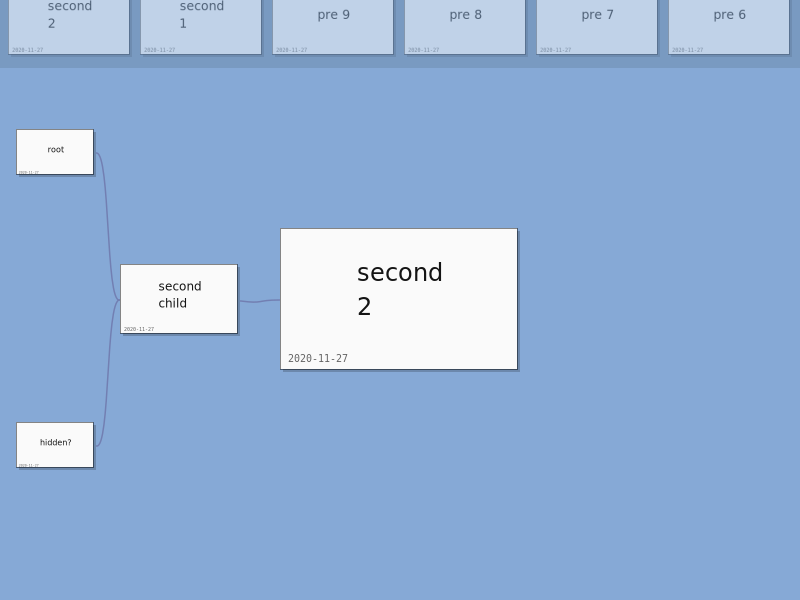
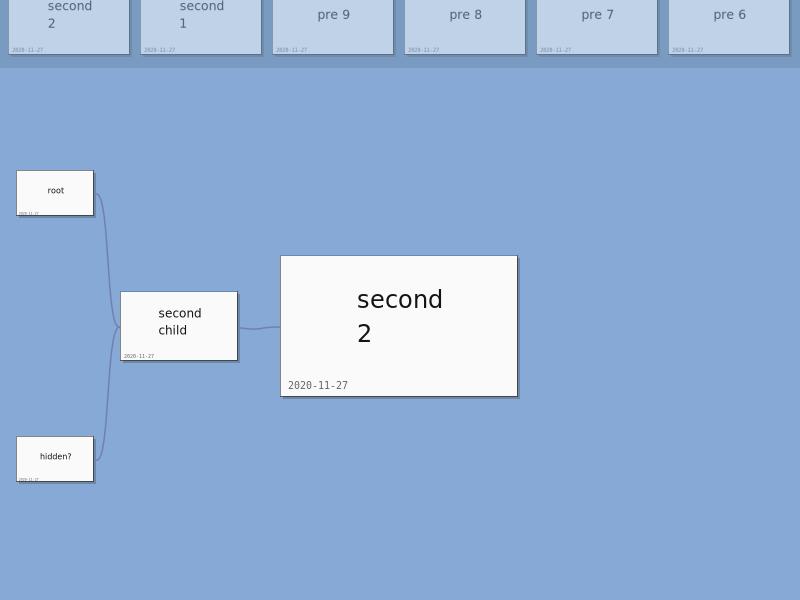
More realistic simulation of update events.

diff --git a/test_smartnotes.py b/test_smartnotes.py
@@ -60,7 +60,14 @@ class GuiDriver(object):
     def iteration(self, events=[], elapsed_ms=1000):
         for event in events:
             self.widget.process_event(event)
-        self.widget.update(pygame.Rect(0, 0, 800, 600), elapsed_ms)
+        while elapsed_ms > 0:
+            elapsed_ms_per_frame = min(elapsed_ms, 20)
+            elapsed_ms -= elapsed_ms_per_frame
+            self.widget.update(pygame.Rect(0, 0, 800, 600), elapsed_ms_per_frame)
+            self.widget.draw(self.canvas)
+        self.widget.update(pygame.Rect(0, 0, 800, 600), 0)
+        self.widget.draw(self.canvas)
+        self.widget.update(pygame.Rect(0, 0, 800, 600), 0)
         self.widget.draw(self.canvas)
 
     def write_to_png(self, path):
@@ -70,7 +77,6 @@ class SmartNotesEndToEndTests(unittest.TestCase):
 
     def setUp(self):
         self.driver = GuiDriver(smartnotes.SmartNotesWidget, "test_resources/example.notes")
-        self.driver.iteration()
 
     def assert_drawn_image_is(self, name):
         try:
@@ -89,27 +95,17 @@ class SmartNotesEndToEndTests(unittest.TestCase):
             )
 
     def test_main_screen(self):
-        self.driver.iteration()
+        self.driver.iteration(elapsed_ms=300)
         self.assert_drawn_image_is("main_screen.png")
 
     def test_search_bar(self):
         self.driver.iteration(events=[KeyEvent("/")], elapsed_ms=100)
-        self.driver.iteration(elapsed_ms=0)
         self.assert_drawn_image_is("search_bar_half_way.png")
         self.driver.iteration(elapsed_ms=100)
-        self.driver.iteration(elapsed_ms=0)
         self.assert_drawn_image_is("search_bar_animation_completed.png")
         self.driver.iteration(events=[KeyEvent("ctrl+g")], elapsed_ms=100)
-        self.driver.iteration(elapsed_ms=0)
-        self.driver.iteration(elapsed_ms=0)
         self.assert_drawn_image_is("search_bar_half_way_hide.png")
-        self.driver.iteration(elapsed_ms=200)
-        self.driver.iteration(elapsed_ms=200)
-        self.driver.iteration(elapsed_ms=200)
-        self.driver.iteration(elapsed_ms=200)
-        self.driver.iteration(elapsed_ms=200)
-        self.driver.iteration(elapsed_ms=200)
-        self.driver.iteration(elapsed_ms=200)
+        self.driver.iteration(elapsed_ms=500)
         self.assert_drawn_image_is("main_screen.png")
 
 if __name__ == "__main__":
